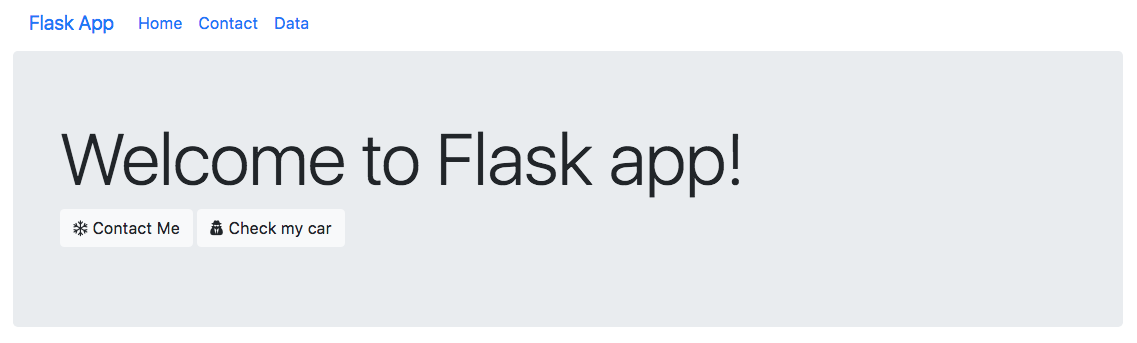
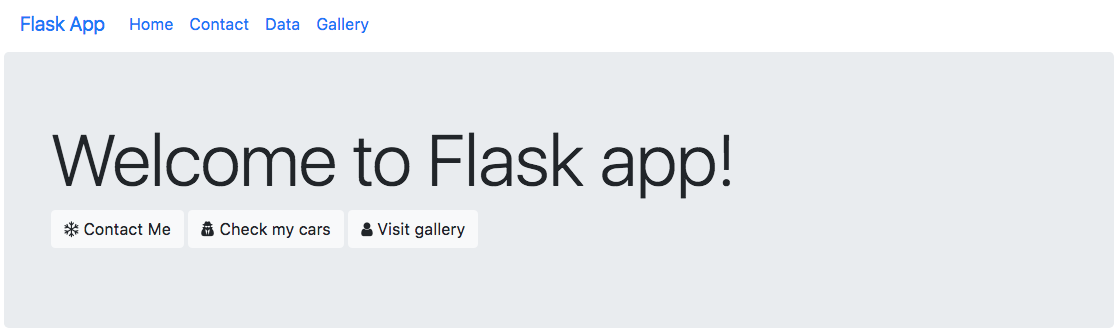
fixed flask description

Changed region(s): [[0.0304, 0.3892, 0.6685, 0.5988], [0.0608, 0.6287, 0.4254, 0.7186], [0.0, 0.0299, 0.3342, 0.1198]]

diff --git a/Flask/README.md b/Flask/README.md
@@ -1,16 +1,17 @@
 # Flask
 
-This challenge consists of using Python flask and json libraries to create a website.
+This challenge consists of using Python flask and json libraries to create a simple website.
 
 ## Description
 
-This application is an example how to use Python with web development. It renders some JSON data into the table.
+This application is an example how to use Python with web development. It renders some JSON data into the table and gallery.
 
 #### Solution Capture
 
 ![Capture](capture.png?raw=true "Capture")
 ![Capture](capture1.png?raw=true "Capture")
 ![Capture](capture2.png?raw=true "Capture")
+![Capture](capture3.png?raw=true "Capture")
 
 
 ```flask``` ```json``` ```jinja2``` ```html5``` ```bootstrap4```

diff --git a/README.md b/README.md
@@ -2,7 +2,7 @@
 
 ## [Flask Example](Flask/)
 
-This challenge consists of using Python flask and json libraries to create a website.
+This challenge consists of using Python flask and json libraries to create a simple website.
 
 #### Solution Capture
 
